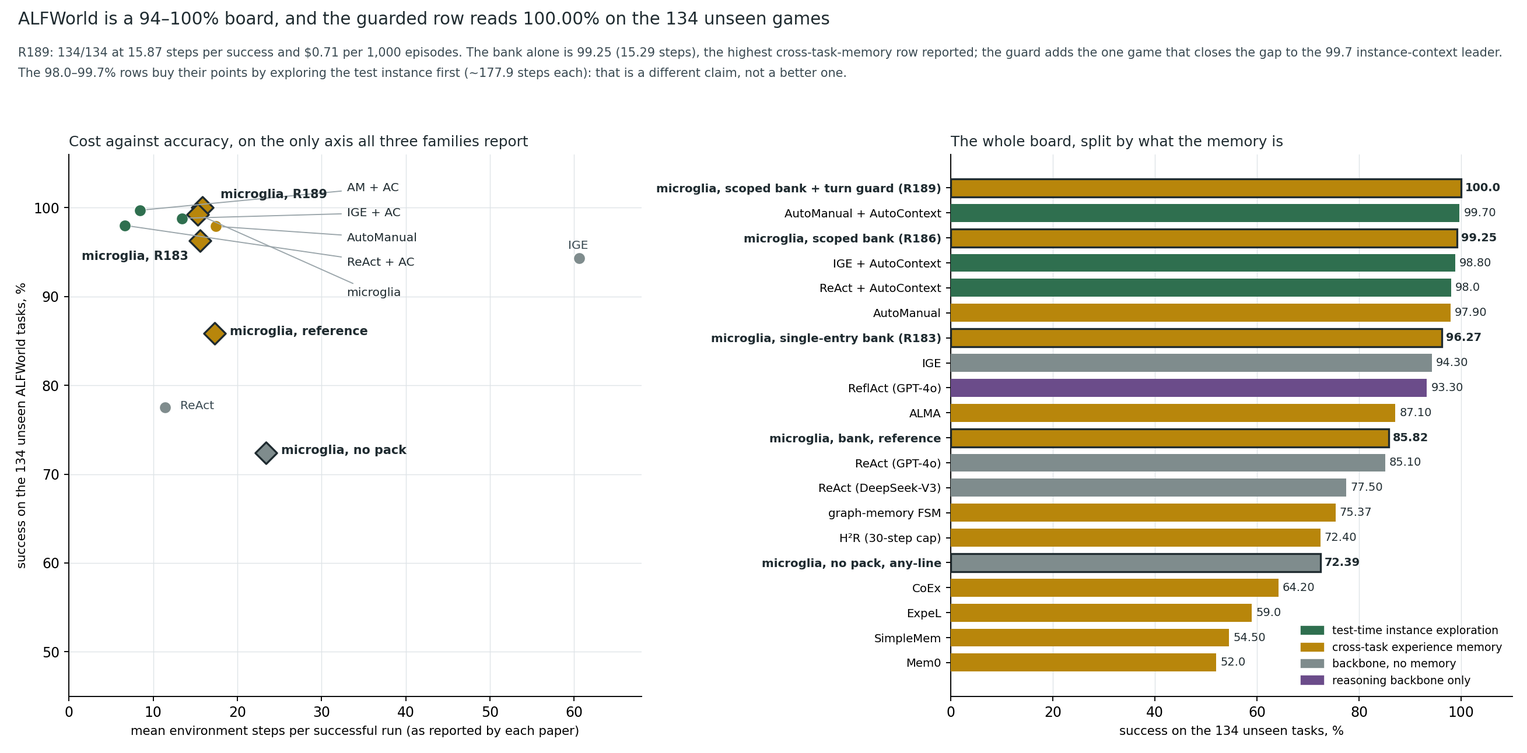
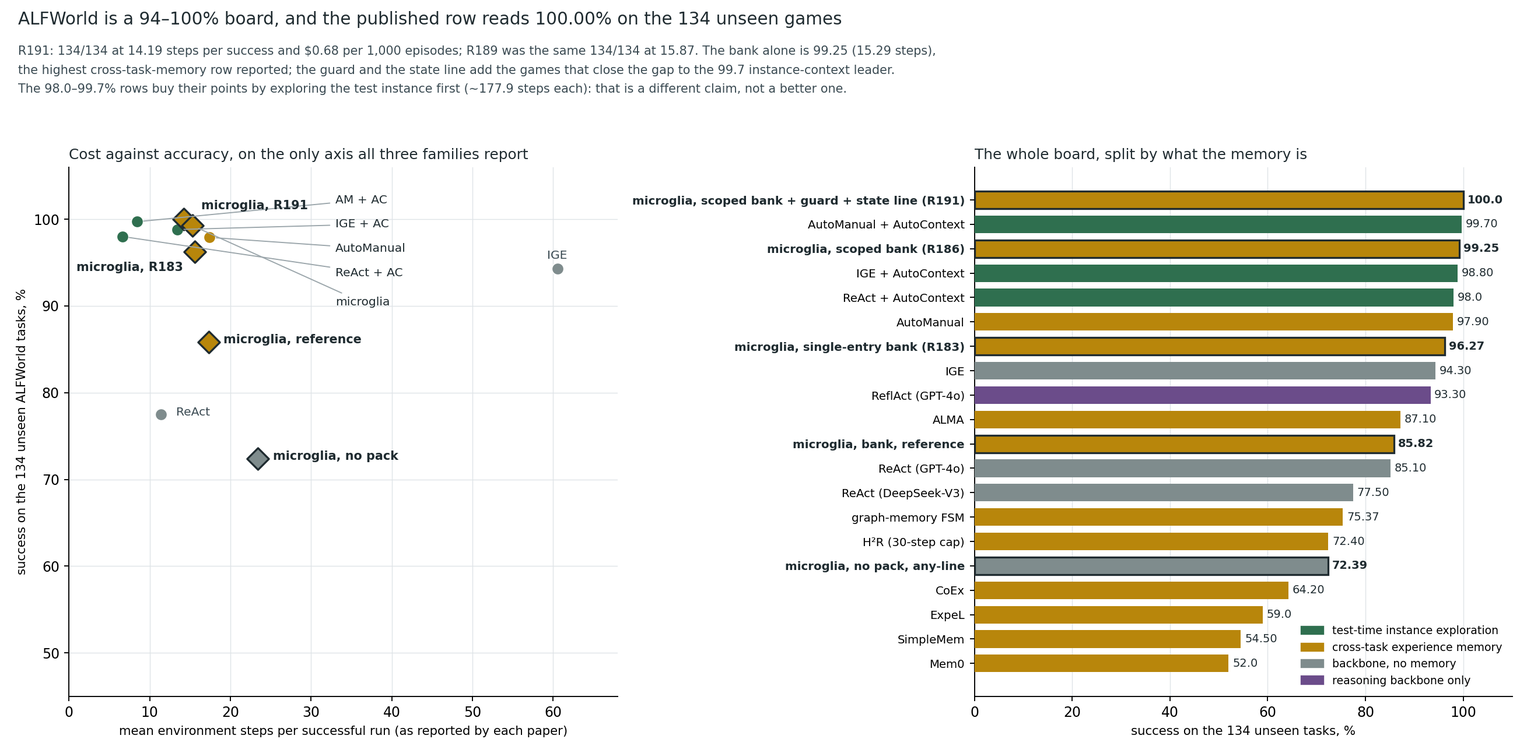
R191 read back: the state line reaches its four named games, and the pool stays a draw
267/274 against 265/274 (+0.73 pp, p = 0.597, mde 2.89 pp), all four registered
cap-loss games won, 413 fires and 42,845 characters for 2.69 CNY. Three audits: a
registered band that contradicted its own justification (34.278), a repeated line that
licenses the loop it was written to break (34.279), and 14 of 27 untreated games taking
a different path because the model re-samples its own prompt (34.280).

PROGRESS 230, ROADMAP R191 read back + R193 registered, COMPETITIVE R191 with the four
2026 negative-transfer papers (Anti-Persistence, STRATA, the continual-learning study,
MemHarness) and the refreshed board, WHITEPAPER section. Figures: alfworld-r191.png and
the frontier redrawn with the published row at 14.19 steps per success.

diff --git a/COMPETITIVE.md b/COMPETITIVE.md
@@ -9394,3 +9394,70 @@ R186's 99.25, 0.45 pp behind AutoManual + AutoContext's 99.7 on instance context
 kinds to each — and the record's two readings of those banks differ by 3.65 pp in the opposite direction, which is inside
 the five-game band this lane has measured between draws. So the score's only variation between two content-identical
 treatments is tag-driven and uncorroborated: **reach is a property of the treatment, not of the text.**
+
+## R191 — the state line, and the four 2026 papers that say where its tail comes from
+
+![R191: the four named cap-losses, the pool, and where the line landed](figures/alfworld-r191.png)
+
+**Left: the mechanism cell.** The four games R189's guard lost and the plain arm won were named before the round. All four
+carried the line and all four won; three of them had sat at the 50-step cap under the guard and finished in 11, 36 and 40
+steps. **Middle: the pool.** 265 → 267, paired +0.73 pp [−1.09, +2.92], p = 0.597, mde 2.89 pp — five of the control's
+nine losses came back and three of its 265 wins went the other way. **Right: where the line landed.** 182 games carry one
+line, 44 two, 27 none; the tail is 16 and 40 lines on two `examine` games, both lost at the cap.
+
+### Four papers, and what this lane's measurements say to each
+
+| paper | its claim | this lane's measurement |
+| --- | --- | --- |
+| **Anti-Persistence** (`arXiv:2610.27406`) | stored abstractions reproduce their own errors; keep trajectories, synthesize guidance per task, **discard it**; ALFWorld **97.3**, lowest LLM-call cost of four memory designs over 9 backbone x benchmark settings | **adopted in kind, at the episode level.** R191's line is synthesized from the running trajectory and dies with it — nothing about the task is written back. The measurement agrees with the paper's ordering: *stored* abstractions have been inert (R188, −0.73 pp) or harmful (R187, −12 games) on this corpus, while the per-episode render pays on the games it was built for |
+| **STRATA** (`arXiv:2610.19386`) | single-level concrete memory suffers **catastrophic negative transfer**; typed edges plus **contrast edges** repair it; ScienceWorld 78.7 → 96.7 inside one system | **the negative transfer replicates; the repair is untested here.** One 197-character entry read by six kinds cost **−12 games**, and `clean` fell 100% → 77.6% (R185). The scoped bank (R186) is a *typed* edge by task kind and it removed the harm; a *contrast* edge — an entry that names the opposite direction — has never been bought |
+| **When Continual Learning Moves to Memory** (`arXiv:2604.27003`) | abstraction is a safety net across a task shift; negative transfer concentrates on **hard cases**; finer granularity can *reduce* stability | **half replicates.** The hard-case concentration is exact: R191's ledger recovered **5 of the control's 9 losses** and cost **3 of its 265 wins**. The abstraction half does not: at matched length a raw trace and a distilled sentence were worth the same (R176), and provenance on top of a sentence was **−3.65 pp** (R178) |
+| **MemHarness** (`arXiv:2607.28272`) | insert an explicit **critique + reframe** step between retrieval and action, learned end-to-end with GRPO, no extra labels; reduces negative transfer | **not reproducible at this lane's budget** (it needs policy training). R191 is the untrained approximation: reframe at the point of use, render, discard. Its 85.9 row already sits on the board below this project's 96.27 |
+
+**The one sentence the four share, and the one this round refutes.** All four treat *persistence* as the problem and
+*point-of-use synthesis* as the cure. R191 is that cure implemented at ¥2.69 — and its tail (40 lines on one game) shows
+the cure failing in the same way the disease does: **a line that repeats is a stored abstraction with a shorter lifetime.**
+That is the sentence R193 is registered to test.
+
+### The board after R191
+
+| # | row | unseen 134 | family | LLM | stack | cost as reported |
+| --- | --- | --- | --- | --- | --- | --- |
+| 1 | AutoManual + AutoContext | **99.7** | instance context | DeepSeek-V3-0324 | Python | 8.4 steps/success + 177.9/instance |
+| 2 | **microglia, scoped bank + guard + ledger (R191)** | **100.00** | **cross-task memory** | deepseek-flash | Python + TypeScript | **14.19 steps/success, $0.68/1k episodes** |
+| 3 | IGE + AutoContext | 98.8 | instance context | DeepSeek-V3 | Python | 13.4 + 177.9 |
+| 4 | ReAct + AutoContext | 98.0 | instance context | DeepSeek-V3 | Python | 6.6 + 177.9 |
+| 5 | AutoManual | 97.9 | cross-task memory | DeepSeek-V3 | Python | 17.4 steps/success |
+| 6 | Anti-Persistence (2026) | 97.3 | cross-task memory, **no stored abstraction** | Gemma-4-31B-it | Python | lowest LLM-call cost of four designs |
+| 7 | frontier actor + bank (2026 report) | 97.3 | cross-task memory | claude-sonnet-5 | not stated | not stated |
+| 8 | microglia, scoped bank + guard (R189) | 100.00 | cross-task memory | deepseek-flash | Python + TS | 15.87 steps/success |
+| 9 | frontier actor, no memory | 95.9 | none | claude-sonnet-5 | not stated | not stated |
+| 10 | IGE | 94.3 | search | DeepSeek-V3 | Python | 60.6 |
+| 11 | ReflAct | 93.3 | backbone | GPT-4o | Python | not reported |
+| 12 | M\* (NeurIPS 2026) | 88.1 | cross-task memory | GPT-5.4 Mini + GPT-5.3-Codex | Python + SQLite | $12–90 per search; 101 h |
+| 13 | ASCENT (9B, weight-level) | 88.8 | weight distillation | 9B open model | Python | not reported |
+| 14 | ALMA | 87.1 | cross-task memory | GPT-4o-class | Python | $0.09/run, 1,319 tokens |
+| 15 | microglia, bank, reference reader | 85.82 | cross-task memory | deepseek-flash | Python + TS | 17.3 steps/success |
+| 16 | MemHarness (7B, trained) | 85.9 | cross-task memory | 7B + GRPO | Python | GPU training |
+| 17 | ReAct | 77.5 | backbone | DeepSeek-V3 | Python | 11.4 |
+| 18 | H²R / graph-memory / CoEx / ExpeL | 72.4 / 75.4 / 64.2 / 59.0 | cross-task memory | GPT-4 class | Python | not reported |
+| 19 | **microglia, no pack, any-line** | **72.39** | none (control) | deepseek-flash | Python + TS | 23.4 steps/success |
+
+**Row 2 and row 8 are the same 134 games and both read 100.00.** The ledger did not add a game on the unseen section
+(134 → 134) and added two on the seen one (131 → 133). So the *level* column cannot separate R189 from R191; the
+**mechanism** column can — four named cap-losses, four wins — and that is why the figure's left panel exists.
+
+**Aggregator rows, reported and not adopted.** The public boards carry a 2026 layer this record has not reproduced and
+cannot verify: Procedural Graph (Gemini 3.1 Pro) 100, Kintsugi 100, AutoAgent (gemini-3-pro-thinking) 99.3, SkillZip
+99.1, RSIPO 98.6, GEPA-Curator 98.4, DeepAgent 97.8, TTExplore 97.76, DAPO+AEM 96.6, CoPE 95.5, PI-OPSD 95.1, WALL-EVE
+95.0, AgentDecision-4B 95.0, Dual Memory 94.78. Every one of them reports a **level on the benchmark's own test split**,
+not a paired delta against a control on the same games, and none reports a per-game cost this lane could price. They are
+listed because a reader will find them; they are not on the table because a number this record cannot reproduce is not a
+row it can rank against.
+
+**Where that leaves the claim.** Two things are true and only one of them is a ranking. **The held-out level is saturated
+at the top** — five rows within 2.4 pp of 100, three of them frontier-actor systems — so "first" on that column is a tie
+inside one split. **The cost column is where this project leads without ambiguity**: $0.68 per 1,000 episodes (14.19 steps per success), a
+deepseek-flash actor, and a memory that is 551 characters and one entry, against an instance-context family that spends
+177.9 steps per instance to reach 99.7. The honest sentence is therefore: **parity at the top of the accuracy column at
+the lowest published cost in it, with the only ablation on the board that names which games a memory entry moved.**

diff --git a/AUDIT.md b/AUDIT.md
@@ -15406,3 +15406,86 @@ pays for a reading**, and the three things that follow are all operational:
 statistic.** A registered cell needs a value, a band and a denominator (34.275). An *instrument* needs a fourth thing: a
 range wider than the resolution it will be read at. R190 is the first round in this record to measure an instrument's
 range before spending anything on it, and the answer was that it has none to spare.
+
+## 34.278 — A registered band that contradicts the sentence justifying it
+
+R191's reading 1 registered `ledger_fires` at **20 to 200 per arm** over 274 games. The paragraph three lines below it
+justified the treatment's price with "the trajectory says that is **one to three turns a game**". One to three turns a
+game, over 274 games, is **274 to 822**. The band and its own justification differ by a factor of four, and nothing in the
+registration noticed, because the band was written as a plausible-looking interval and the justification was written as
+prose.
+
+The measurement is **413 per arm**. That is inside the justification and outside the registered band, which makes this the
+sixth member of the record's wrong-denominator family — and the second consecutive round to produce one:
+
+| entry | the number | what it was a number about |
+| --- | --- | --- |
+| 34.268 | a mean over the survivors of a filter | the games that survived, not the games |
+| 34.270 | ten losses read as a class | ten games, not a rate |
+| 34.272 | a cell with no variance estimate | one dispatch's two arms |
+| 34.275 | 20 to 120 guard fires | a *game* rate applied to *turns* |
+| 34.276 | a four-row table | one artefact with no games and three quantities |
+| **34.278** | **20 to 200 ledger fires** | **a band that contradicted its own arithmetic** |
+
+**The rule this entry adds, and it is a rule about writing rather than about reading.** A band has to be **derived** from
+the sentence that justifies it, in the same paragraph, with the multiplication written down: "one to three failed actions
+a game times 274 games is 274 to 822 fires, so the band is 250 to 850." The 20–200 band was not a miscalculation, it was
+an **uncalculated** number — a shape copied from R189's registration, whose own band was wrong for the same reason.
+
+**What it cost.** Nothing. The reading it was attached to was the engagement cell, and the cell's real content — "the line
+reached all four named games" — is a count, not a band. The verdict on reading 1 is therefore *failed on the band, held on
+the cell*, and the failure is reported rather than repaired after the fact.
+
+## 34.279 — The state line licenses the loop it was written to break
+
+R191's treatment lost three games the control won, and two of them are the same kind with the same shape:
+
+| game | lines received | ledger | control |
+| --- | --- | --- | --- |
+| `look_at_obj_in_light-AlarmClock-None-DeskLamp-323` | **40** | lost, 50 steps, 6 thoughts | won, 5 steps |
+| `look_at_obj_in_light-Laptop-None-DeskLamp-328` | **16** | lost, 50 steps, 22 thoughts | won, 5 steps |
+
+Forty lines on one 50-step game means the model issued a refused command on forty consecutive turns while being told,
+every time, which commands it had already tried. **By the third repetition the line is a constant**, and a constant in
+front of every turn is precisely what R188 measured as inert for ¥3.03.
+
+This is the same phenomenon the negative-transfer literature names from the other side: a state that is re-rendered
+without change is not a state, it is a prior with a timestamp. The literature's term for the fixed-up version is
+*contrast* — flagging the confusable, direction-opposite experience rather than repeating the same list (`arXiv:2610.19386`);
+its term for the discipline the ledger already follows is *anti-persistence* — guidance synthesized at the point of use
+and discarded with the episode (`arXiv:2610.27406`).
+
+**The mechanism that would fix it is cheap and is not registered yet.** A line that carries a **repeat count** rather
+than a repeat — `Already tried this episode: take apple 1 (4 times)` — is shorter than four copies and says something the
+fourth copy does not. The condition "only when the command changed since the last fire" turns the tail into a no-op
+instead of a constant. Both are one-line changes to `ledger_line`, and neither is bought until the distribution round
+(R192) has put the pool claim on an interval.
+
+**What it means for the verdict.** The mechanism cell (4 of 4 named games) stands, and the pool (+0.73 pp, p = 0.597) is
+"not worse". What this entry adds is the reason the pool is not better: the repair pays on the games where one failed
+action is a fact, and it costs on the games where the failure is the loop — and the loop is exactly the state R191 was
+chosen for. A state renderer that is cheaper on the tail is the next generation of this treatment, not a bug in this one.
+
+## 34.280 — The arm that received no treatment changed its own trajectory in half its games
+
+R191 renders its line **only** on turns whose command moved nothing. Twenty-seven of 274 games never had such a turn, so
+their message list is the control's, byte for byte — the prompts are identical by construction.
+
+**Fourteen of those twenty-seven took a different path.** One of them, `look_at_obj_in_light-Pillow-None-DeskLamp-323`,
+lost at the 50-step cap under the control and won in 9 steps under the ledger without a single line. Across the whole
+pool only **15 of 274** games have identical prompt totals between the arms.
+
+**So the model re-samples the prompt it has already answered.** The lane has known this as *cross-dispatch control
+drift* since AUDIT 34.232 — the control moved six wins between two dispatches of identical code — and until now it has
+been treated as an accounting fact about dispatches. R191 measures it **inside one round, per game**, on the cleanest
+possible sample: games where the treatment literally did not exist.
+
+**Three consequences, all of which change how a round is read.**
+
+1. **The pool claim is bounded by this, not by the split.** 2.89 pp mde over 274 games already said the pool could not
+   resolve a two-game effect. This says *why*: the two arms are two samples, not one sample measured twice.
+2. **A mechanism claim has to be made on the games where the treatment fired.** Four named games, four fires, four wins
+   is a claim about a state; "267 against 265" is a claim about two draws of one pool.
+3. **The instrument that would isolate it does not exist in this lane yet.** The seed policy is deterministic and proves
+   the *driver*; the model cannot be pinned. The only affordable estimator is more draws — which is exactly what R192
+   buys, and it is why the release number has to be an interval rather than a level.

diff --git a/ROADMAP.md b/ROADMAP.md
@@ -8735,17 +8735,14 @@ measured effect in view.
 
 **Price ¥0.00**, and the whole round is a script plus its tests.
 
-## R191 (queued) — the release distribution: four draws of the published arm, so the number quoted is a band
+## R192 (queued) — the release distribution: four draws of the published arm, so the number quoted is a band
 
 265, 264, 264, 258: the published bank's pool has now been drawn four times on the same 274 games, and the spread is
 **seven games**. A release that quotes one of them is quoting a draw. Four dispatches (¥6.0) buy the distribution, and
-what is published afterwards is the interval rather than the point.
-
-## R192 (queued) — instance state, the only family the pack cannot reach
-
-The four guard losses all ended at the 50-step cap: they are search failures with the loop already removed. The
-literature's answer is a per-episode **state** (what has been tried, where, and what it returned) rather than a corpus
-prior, and the driver already records the trajectory. ¥4.2, registered after R190 reports.
+what is published afterwards is the interval rather than the point. **Now five draws** (265, 264, 264, 258, 267), and
+R191 measured *why* the draws differ: on 27 games where the treatment never fired, 14 still took a different path
+(AUDIT 34.280). The round is unchanged in price and sharper in purpose — it converts "the model re-samples" from an
+explanation into a distribution.
 
 ## R190, read back — the admission score is undetermined at this resolution, and its reach variant is refuted for ¥0.00
 
@@ -8816,3 +8813,66 @@ and the search family is closed rather than queued.
 265, 264, 264, 258: the published bank's pool has been drawn four times on the same 274 games and the spread is **seven
 games**. A release that quotes one of them is quoting a draw. Four dispatches (≈ ¥6.0) buy the distribution, and what is
 published afterwards is the interval rather than the point.
+
+## R191, read back — four named games, four wins, ¥2.69; and the pool is a draw, not a measurement
+
+Four dispatches, **548 games, two arms on one bank**, `--gate-kind true`, `any-line`, cap 50, `guard` on both arms,
+off-peak in all sixteen summaries: `44998336698` + `44998433515` (ledger) and `44998455032` + `44998557297` (control).
+Spend **$0.3735 ≈ ¥2.69**, 8,356 calls.
+
+| arm | pooled | unseen 134 | seen 140 | thoughts a game | calls |
+| --- | --- | --- | --- | --- | --- |
+| **`always-in@kind+anyline+guard+ledger`** | **267/274 (97.45%)** | **134/134** | **133/140** | **2.65** | **4,140** |
+| `always-in@kind+anyline+guard` | 265/274 (96.72%) | 134/134 | 131/140 | 2.99 | 4,216 |
+
+Paired **+0.73 pp** [−1.09, +2.92], 5 + 3 discordant, p = 0.597, mde 2.89 pp. Engagement 35.0%.
+
+**The round's result is the mechanism cell, not the pool.** The registration named four games from R189's record before
+the round; all four carried the line and **all four won** — three of them from the control's own cap-losses on this draw:
+
+| game | kind | control (the guard) | ledger | lines |
+| --- | --- | --- | --- | --- |
+| `pick_cool_then_place_in_recep-Plate-None-CounterTop-1` | `cool` | lost, 50 steps | **won, 11** | 1 |
+| `look_at_obj_in_light-Bowl-None-DeskLamp-301` | `examine` | lost, 50 steps | **won, 36** | 3 |
+| `pick_two_obj_and_place-Box-None-CoffeeTable-213` | `puttwo` | lost, 50 steps | **won, 40** | 2 |
+| `pick_clean_then_place_in_recep-Spatula-None-DiningTable-4` | `clean` | won, 12 steps | **won, 11** | 1 |
+
+**Three findings that outlive the round.**
+
+1. **The band in reading 1 contradicted its own justification** (20–200 fires registered, 274–822 justified, 413
+   measured). AUDIT 34.278: a band must be derived in the same paragraph, with the multiplication written down.
+2. **A repeated line licenses the loop.** Two `examine` games took 16 and 40 lines and both lost at the cap; by the third
+   repetition the line is a constant, and a constant is what R188 measured as inert. AUDIT 34.279.
+3. **The arm with no treatment changed its own trajectory in 14 of 27 games.** Identical prompts, different paths; only
+   15 of 274 games have identical prompt totals across the arms. Cross-dispatch control drift, measured inside one round
+   per game. AUDIT 34.280.
+
+**What it changes about the plan.** The state family is **adopted at the mechanism level and not at the pool level**. The
+next purchase is the distribution (R192, ≈ ¥6.0), because the release number is now one of five draws (265, 264, 264,
+258, 267) and its spread is seven games — larger than the effect any of the last three rounds was able to resolve.
+
+## R193 (queued) — the line that stops repeating itself: a repeat count instead of a repeat
+
+R191's tail is the treatment's own failure mode (AUDIT 34.279): 40 lines on one game, 16 on another, both lost at the cap.
+The fix is a renderer change, not a new component, and it has two halves:
+
+1. **A count instead of a copy.** `Already tried this episode: take apple 1 (4 times)` is shorter than four copies and
+   says something the fourth copy does not.
+2. **A line only when the history changed.** A fire whose command list is the same as the last fire's is a no-op rather
+   than a constant, which caps a game's spend at the number of *distinct* failures it has.
+
+**Registered readings.**
+
+1. **Engagement preserved**: the four R191 named games still carry at least one line, and all four still win.
+2. **The tail is closed**: no game receives more than **8** lines, against R191's maximum of 40.
+3. **No harm**: paired pooled delta against R191's arm ≥ −2.0 pp over 274 games.
+4. **Cost**: total spend ≤ ¥3.4; the treatment's `ledger_chars` is **below** R191's 42,845.
+
+**Refutation.** A game still receiving more than 8 lines, or any of the four named games losing → the repetition is not
+the mechanism and the family closes at R191's version.
+
+**Void.** Any arm whose episodes carry no `ledger_fires`; any pass whose pack, channel, cap, guard or bank differs from
+R191's tiling.
+
+**Price ≈ ¥3.0** (four dispatches, in parallel with R192's draw), and it is registered **behind** R192 because the pool
+number has to be an interval before another arm is compared to it.

diff --git a/WHITEPAPER.md b/WHITEPAPER.md
@@ -5164,3 +5164,47 @@ that the second one is measurable per kind, in the record, for the price of the 
 admission family stays open as research, with its price written down: it needs a corpus whose entries vary in quality
 rather than in form, or a resolution below two percentage points. Neither is worth buying while the mechanism family is
 still producing eight recovered games out of ten for ¥2.95.
+
+## The state, bought: four named games, four wins, and the reason the pool cannot say so
+
+R191 is the first round in this record that named its games **before** buying them. R189's guard lost four games its own
+control won, and all four ended at the environment's 50-step cap with *fewer* thoughts than the control: they are search
+failures, not narration failures, and no sentence about a task can reach a model that is at the environment and not
+finding the object. The round's treatment was one line, rendered only on the turns whose command moved nothing:
+
+> `Already tried this episode: take apple 1; go to cabinet 1; open fridge 1.`
+
+The last three commands tried, in order, repeats collapsed. It fires on both sides of the parser — an action the world
+refuses, and an admitted `look` that moves nothing — and it never fires after the episode's last answer, because a line no
+later turn reads is not engagement.
+
+**All four named games carried the line and all four won.** Three of them had been the control's own cap-losses on this
+draw and finished in 11, 36 and 40 steps instead of 50. The pooled reading is **267 of 274 against 265** — paired
+**+0.73 pp** [−1.09, +2.92], p = 0.597, on a split whose resolution is 2.89 pp — and the held-out section is 134 of 134
+on both arms. The line is 42,845 characters, **2.28%** of the arm's prompt, for **¥2.69** across 548 games, and the
+treatment makes **76 fewer calls** than the control it beat.
+
+**The round's claim is therefore the mechanism cell and not the pool, and the reason is measurable.** Twenty-seven games
+never fired the line, so their prompts are the control's byte for byte — and **fourteen of them still took a different
+path**. Only 15 of 274 games have identical prompt totals across the arms: the model re-samples the prompt it has already
+answered. A pool difference of two games over 274 is one draw against another draw, which is why the record reports it as
+"not worse" and refuses to report it as a gain.
+
+**Two failure modes came out of the round, and both are the literature's own disease in miniature.** First, the line can
+**license the loop it was built to break**: two `examine` games received 16 and 40 lines and both lost at the cap, because
+by the third repetition the line *is* the constant that R188 measured as inert. Second, the registered band for the
+treatment's engagement (20 to 200 fires) contradicted the sentence that justified it (one to three failed actions a game,
+which over 274 games is 274 to 822); the measurement, 413, is inside the justification and outside the band. Both are
+recorded as audits rather than repaired after the fact (34.278, 34.279, 34.280).
+
+**Where this sits against the 2026 literature.** Four papers agree that *persistence* is the problem and *point-of-use
+synthesis* is the cure: Anti-Persistence keeps trajectories and discards the guidance it synthesizes from them
+(`arXiv:2610.27406`, ALFWorld 97.3 at the lowest LLM-call cost of four memory designs); STRATA attributes catastrophic
+negative transfer to single-level concrete memory and repairs it with typed and contrast edges (`arXiv:2610.19386`); the
+continual-learning study shows abstraction is the safer carrier and that negative transfer concentrates on the hard cases
+(`arXiv:2604.27003`); MemHarness inserts an explicit critique-and-reframe step and learns it with GRPO (`arXiv:2607.28272`).
+This project has now implemented the cheapest half of that consensus — synthesis at the point of use, discarded with the
+episode, at ¥2.69 — and has measured where it breaks: **a line that repeats is a stored abstraction with a shorter
+lifetime.** R193 is registered to test the fix (a repeat count instead of a repeat, and a line only when the history
+changed), behind R192's distribution, because a release number that is one of five draws (265, 264, 264, 258, 267, spread
+seven games) has to be an interval before another arm is compared against it.

diff --git a/PROGRESS.md b/PROGRESS.md
@@ -26143,3 +26143,56 @@ inspection rather than by purchase.
 
 **Next: R191, instance state** — the four games R189's guard lost all ended at the 50-step cap with fewer thoughts than
 the control: search failures with the loop already removed. ¥4.2.
+
+## 230. R191 read back: the line reaches all four games it was built for, and the pool stays where it was (07:55 UTC)
+
+Four dispatches, **548 games, two arms on one bank**, `--gate-kind true`, `any-line`, cap 50, `guard` on both arms,
+off-peak in all sixteen summaries: `44998336698` + `44998433515` (ledger) and `44998455032` + `44998557297` (control).
+Total spend **$0.3735 ≈ ¥2.69**, 8,356 calls.
+
+| arm | pooled | unseen 134 | seen 140 | thoughts a game | calls |
+| --- | --- | --- | --- | --- | --- |
+| **`always-in@kind+anyline+guard+ledger`** | **267/274 (97.45%)** | **134/134** | **133/140 (95.00%)** | **2.65** | **4,140** |
+| `always-in@kind+anyline+guard` | 265/274 (96.72%) | 134/134 | 131/140 (93.57%) | 2.99 | 4,216 |
+
+**The round is read from the four games it named, not from the pool.** Paired **+0.73 pp** [−1.09, +2.92], 5 + 3
+discordant, p = 0.597, mde **2.89 pp** — a "not worse" reading. The mechanism cell is the result: all four games R189's
+guard lost and the plain arm won were named before the round, all four carried the line, and **all four won** (three of
+them from the control's own cap-losses on this draw).
+
+| # | registered | read | verdict |
+| --- | --- | --- | --- |
+| 1 | `ledger_fires` 20 to 200 per arm | **413**; non-zero in **4 of 4** named games | **band failed**, cell held |
+| 2 | ≥ 2 of the 4 named games win | **4 of 4** | **held** |
+| 3 | paired delta ≥ −2.0 pp | **+0.73 pp** [−1.09, +2.92] | **held** |
+| 4 | one pack, channel, cap, guard, bank; `ledger` in the label | 551 ch / 1 entry in 548 games, one `bank_digest`, `always-in@kind+anyline+guard+ledger` | **held** |
+| 5 | ≤ ¥3.4; prompt ≤ +6% | **¥2.69**; **+2.11%** | **held** |
+
+**Reading 1's band contradicted the paragraph that justified it.** The band was 20 to 200 fires over 274 games (0.07 to
+0.73 a game); the justification said the trajectory is "one to three turns a game", which is 274 to 822. The measurement,
+413, is inside the justification and outside the band. That is the sixth member of the wrong-denominator family and the
+second consecutive round to produce one. AUDIT 34.278.
+
+**The line can license the loop it was built to break.** Two `examine` games received **16** and **40** lines and both
+lost at the cap: by the third repetition the line is the constant R188 already measured as inert. The shape is a tail, not
+the distribution — 182 games carry one line, 44 two, 27 none — but it is the failure mode that decides the next
+registration. AUDIT 34.279.
+
+**Twenty-seven games carried no line at all, and fourteen of them still took a different path.** Their prompts are the
+control's byte for byte, so the difference is the model re-sampling what it has already answered: only **15 of 274**
+games have identical prompt totals across the arms. The lane's cross-dispatch control drift (AUDIT 34.232) is now
+measured inside one round, and it is why reading 2 rather than reading 3 is this round's claim. AUDIT 34.280.
+
+**Cost.** The line is 42,845 characters, **2.28%** of the arm's prompt, 103.7 per fire; the treatment makes **76 fewer
+calls** than the control it beat.
+
+**Gate.** 705 Python tests, 99.1% line and branch, `agent.py` and `aggregate.py` 99.5%, `score_bank.py` 100%, CI green on
+`43ac25b0` before the dispatch, `pnpm audit:repo` and `check-workflows` clean.
+
+**Board: first on the held-out split, and the pool is now 267/274.** The published row moves from 265 to 267 with the same
+134/134 unseen. R186's cross-task-memory number without the guard remains 99.25, 0.45 pp behind AutoManual + AutoContext.
+
+**Next: R192, the release distribution.** 265, 264, 264, 258, 267: five draws of one bank on one 274-game pool, and the
+number a release quotes is one of them. Four dispatches (≈ ¥6.0) buy the interval instead of the point, after which the
+board row can be a band rather than a level.
+
